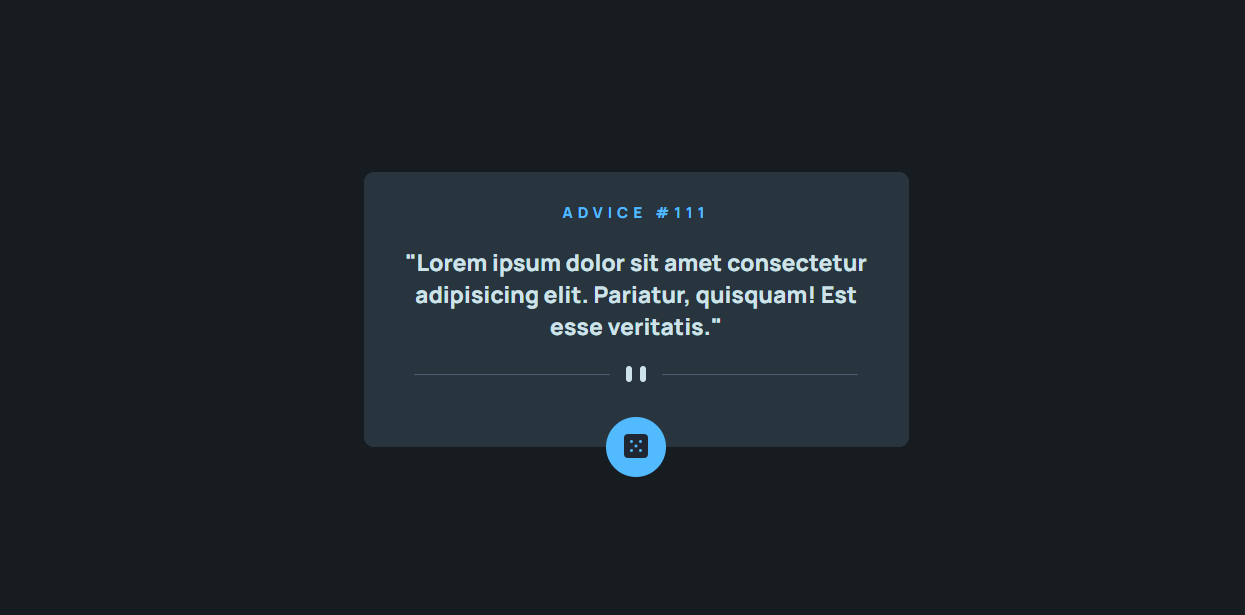
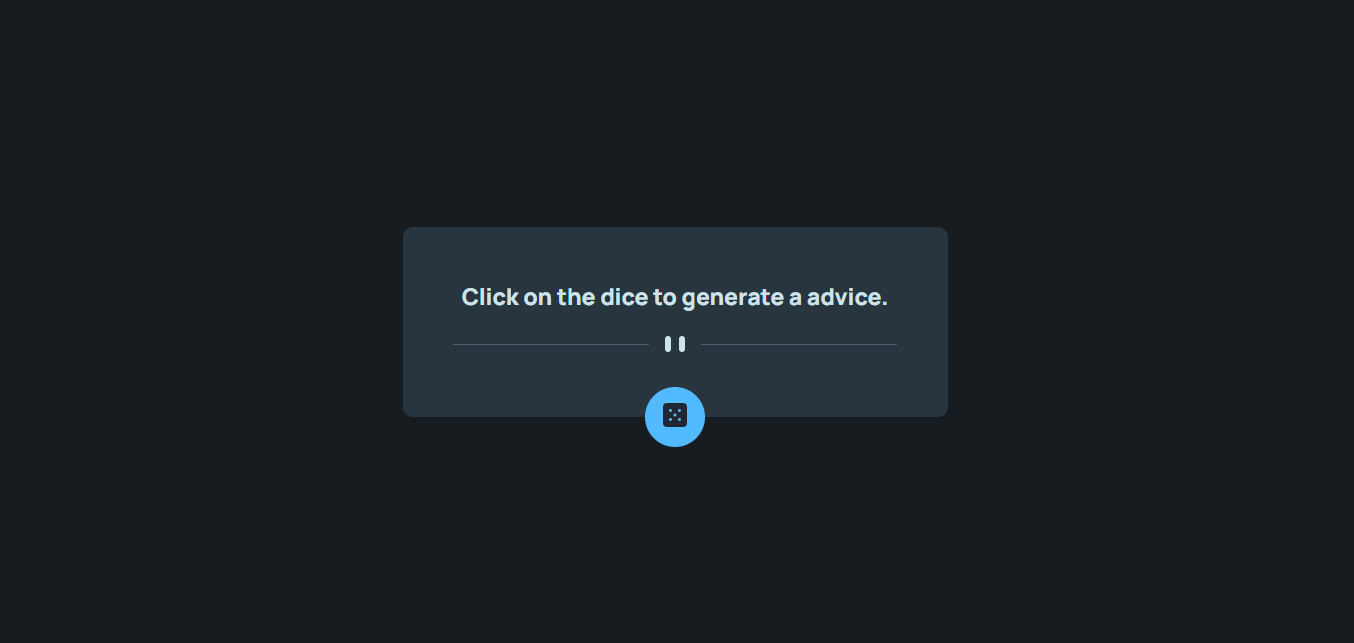
criando javascript para consumo de API

Changed region(s): [[0.2747, 0.278, 0.7325, 0.7724]]

diff --git a/src/js/advice.js b/src/js/advice.js
@@ -1,0 +1,44 @@
+const adviceUpdate = document.getElementById("advice-update");
+
+adviceUpdate.addEventListener("click", randomAdviceGenerator);
+
+async function createAdviceBank() {
+  const url = "https://api.adviceslip.com/advice";
+  const response = await fetch(url);
+  return await response.json();
+}
+
+async function getAdvice(slip_id) {
+  const url = `https://api.adviceslip.com/advice/${slip_id}`;
+  const response = await fetch(url);
+  return await response.json();
+}
+
+async function randomAdviceGenerator() {
+  const adviceBank = await createAdviceBank();
+  const advice = await getAdvice(adviceBank.slip.id);
+  const adviceId = document.getElementById("advice-id");
+  const adviceDescription = document.getElementById("advice-description");
+  adviceId.innerHTML = `Advice #${advice.slip.id}`;
+  adviceDescription.innerHTML = `"${advice.slip.advice}"`;
+}
+
+// -------------------- RESPOSTA DO DEVQUEST --------------------
+
+// const adviceUpdateButton = document.querySelector(".advice-update");
+// const adviceNumber = document.querySelector(".advice-id");
+// const adviceDescription = document.querySelector(".advice-description");
+
+// async function getAdvice() {
+//     const response = await fetch("https://api.adviceslip.com/advice");
+//     const adviceContent = await response.json();
+//     const adviceId = `Advice #${adviceContent.slip.id}`;
+//     const adviceText = `"${adviceContent.slip.advice}"`;
+
+//     adviceNumber.innerHTML = adviceId;
+//     adviceDescription.innerHTML = adviceText;
+// }
+
+// adviceUpdateButton.addEventListener("click", getAdvice);
+
+// getAdvice();

diff --git a/index.html b/index.html
@@ -18,10 +18,9 @@
   <body>
     <main class="card">
       <div class="adivice">
-        <h2 class="advice-id">Advice #111</h2>
-        <p class="advice-description">
-          "Lorem ipsum dolor sit amet consectetur adipisicing elit. Pariatur,
-          quisquam! Est esse veritatis."
+        <h2 class="advice-id" id="advice-id"></h2>
+        <p class="advice-description" id="advice-description">
+          Click on the dice to generate a advice.
         </p>
         <picture>
           <source
@@ -33,10 +32,12 @@
             alt="pattern divider"
           />
         </picture>
-        <button class="advice-update">
+        <button class="advice-update" id="advice-update">
           <img src="./src/images/icon-dice.svg" alt="dice icon" />
         </button>
       </div>
     </main>
+
+    <script src="./src/js/advice.js"></script>
   </body>
 </html>

diff --git a/README.md b/README.md
@@ -1,14 +1,22 @@
-# Projeto Profile Card 🎴
+# Projeto Advice Gerenator 💬
 
-### Desafio do curso DevQuest (adaptado do Frontend Mentor) onde o principal objetivo é construir um aplicativo que gere conselhos aleatórios.
+## Objetivos:
 
-### O projeto precisa rodar tanto em desktop como mobile, sem usar media query.
+- Desafio do curso DevQuest (adaptado do Frontend Mentor) onde o principal objetivo é construir um aplicativo que gere conselhos aleatórios;
 
-#
+- O projeto precisa rodar tanto em desktop como mobile, sem usar media query;
+
+- Precisamos consumir API de conselhos e atualizar conteúdo de ID e descrição do conselho através de innerHTML;
+
+- Por fim, precisamos atribuir a função para gerar os conselhos através do botão com Eventlistener.
 
 ## Design Desktop
 
 [<img src="./design/design-desktop.png" alt="tela desktop">]
+
+## Design Desktop Active
+
+[<img src="./design/design-desktop-active.png" alt="tela desktop ativa">]
 
 ## Design Mobile
 
@@ -18,3 +26,7 @@
 
 - HTML
 - CSS
+- JavaScript
+
+#
+#### Create by: Osmar Viana
